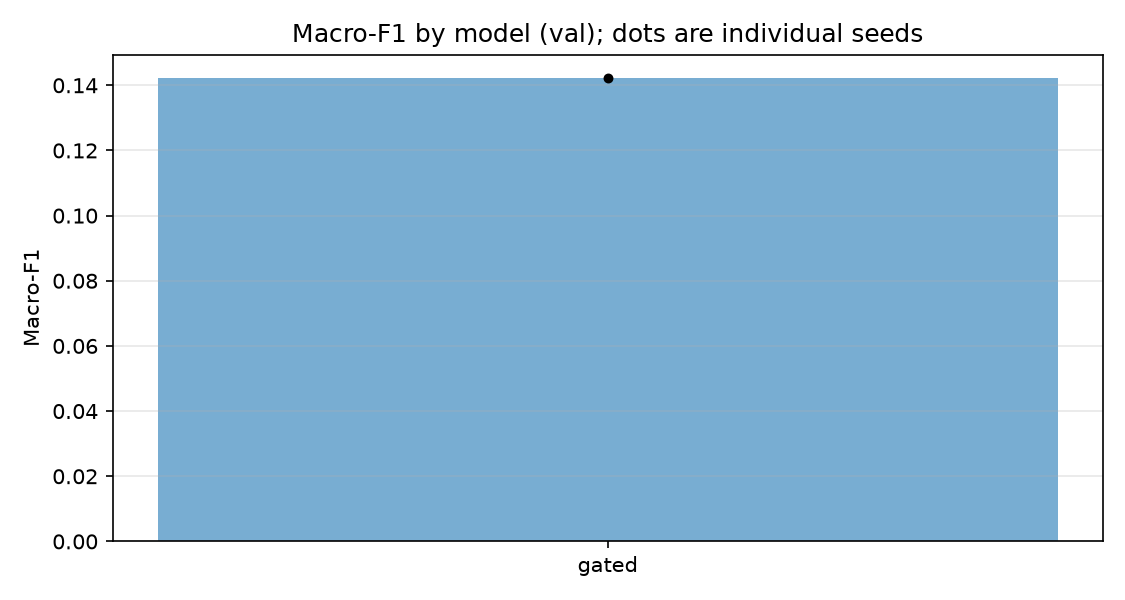
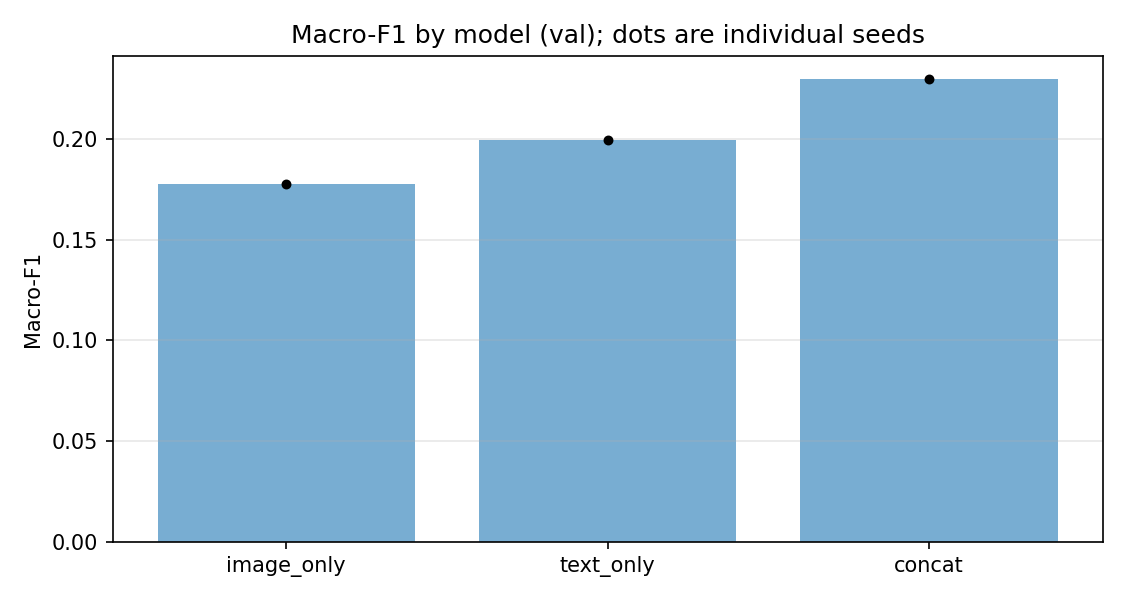
Publish Assignment 3 M2 draft results

diff --git a/assignment3.html b/assignment3.html
@@ -466,7 +466,7 @@
         <div class="section-header"><span class="section-icon" aria-hidden="true">&#128203;</span><h2 class="section-title" id="proposal-heading">Dataset Proposal</h2></div>
         <div class="content-card proposal-card"><div class="proposal-hero">
           <div class="proposal-topbar">
-            <span class="status-badge"><span class="status-badge-icon" aria-hidden="true"><svg viewBox="0 0 24 24" fill="none" stroke="currentColor" stroke-width="1.8" stroke-linecap="round"><circle cx="12" cy="12" r="8.5"/><path d="M12 7v5l3 2"/></svg></span><span>Pending instructor review</span></span>
+            <span class="status-badge approved"><span class="status-badge-icon" aria-hidden="true"><svg viewBox="0 0 24 24" fill="none" stroke="currentColor" stroke-width="1.8" stroke-linecap="round"><circle cx="12" cy="12" r="8.5"/><path d="M8.5 12.2l2.4 2.4 4.6-4.8" stroke-linejoin="round"/></svg></span><span>Approved to proceed</span></span>
             <span class="due-badge">Milestone M1</span>
           </div>
           <div class="proposal-intro">
@@ -474,6 +474,7 @@
               <div class="badge-track">Selected track: Image&ndash;text classification</div>
               <div class="proposal-title-box"><h3 class="proposal-title">Memotion-7K</h3></div>
               <p class="proposal-desc">Five-class meme sentiment classification using images and corrected text. We will compare unimodal baselines, simple fusion, and learned fusion to study when the two inputs support or conflict with each other.</p>
+              <p class="proposal-desc">Under the instructor&rsquo;s general guidance relayed by the group, teams may proceed with a suitable dataset without waiting for individual proposal approval.</p>
               <div class="action-links">
                 <a href="https://www.kaggle.com/datasets/hammadjavaid/6992-labeled-meme-images-dataset" target="_blank" rel="noopener" class="action-btn primary">Kaggle Dataset <span aria-hidden="true">&#8599;</span></a>
                 <a href="https://aclanthology.org/2020.semeval-1.99/" target="_blank" rel="noopener" class="action-btn">Original Paper <span aria-hidden="true">&#8599;</span></a>
@@ -604,13 +605,13 @@
           <div class="table-container" role="region" tabindex="0" aria-labelledby="proposal-compute-budget"><table class="rubric-table"><caption id="proposal-compute-budget">Explicit compute-budget assumptions</caption><thead><tr><th scope="col">Component</th><th scope="col">Planning allowance</th></tr></thead><tbody>
           <tr><td>Provisional data scale</td><td>About 4,890 training and 1,048 validation pairs; at batch size 32, approximately 153 training and 33 validation batches per epoch. Final grouped counts may differ.</td></tr>
           <tr><td>Five configurations, one seed</td><td>Up to 20 epochs each, or 100 complete training/validation epochs in total</td></tr>
-          <tr><td>Assumed epoch time</td><td>1&ndash;2 minutes per training-plus-validation epoch; this must be measured after approval</td></tr>
+          <tr><td>Assumed epoch time</td><td>1&ndash;2 minutes per training-plus-validation epoch (proposal estimate)</td></tr>
           <tr><td>Training and validation</td><td>100&ndash;200 minutes across the five configurations</td></tr>
           <tr><td>Extraction, setup, and evaluation</td><td>20&ndash;40 additional minutes, including initial frozen-feature extraction where used and checkpoint reloads</td></tr>
           <tr><td>Total time reserved</td><td>120&ndash;240 minutes (2&ndash;4 hours), excluding optional extra seeds and image fine-tuning</td></tr>
           <tr><td>Working storage</td><td>15&ndash;20 GB for data, caches, checkpoints, and logs; separate from Python/CUDA installation</td></tr>
           </tbody></table></div>
-          <p>Text-only and cached frozen-feature runs may be faster, and early stopping may reduce the budget. GPU model alone does not determine throughput: CPU decoding, storage, data-loader settings, and caching also matter. After approval, time a short training/validation pilot and measure peak VRAM, then replace these assumptions with observed costs. Preserve the required comparisons before optional extra runs.</p>
+          <p>Text-only and cached frozen-feature runs may be faster, and early stopping may reduce the budget. GPU model alone does not determine throughput: CPU decoding, storage, data-loader settings, and caching also matter. During implementation, measure training and validation time and peak VRAM to compare with these estimates. Preserve the required comparisons before optional extra runs.</p>
           <p>Record dependency versions, hardware, seeds, encoder weights, resolved configurations, manifest hashes, source revision and dirty-tree status, run IDs, logs, selected checkpoints, and training/inference timing scope. Supply preparation, training, evaluation, and checkpoint reconstruction instructions as implementation progresses.</p>
         </section></div></div>
       </section>
@@ -620,6 +621,8 @@
           <span class="section-icon" aria-hidden="true">&#127919;</span>
           <h2 class="section-title" id="problem-statement-title">Problem Statement</h2>
         </div>
+        <p>Given a meme image and its supplied corrected text, predict one overall sentiment label: <strong>very negative, negative, neutral, positive, or very positive</strong>.</p>
+        <p>A meme&rsquo;s sentiment can depend on how the wording and image interact. In M2, we compare an image-only model, a text-only model, and a model that combines both inputs on the same validation split. Our primary measure is Macro-F1, which gives each sentiment class equal weight despite class imbalance.</p>
       </section>
 
       <!-- Dataset Description & EDA -->
@@ -751,6 +754,11 @@
           <span class="section-icon" aria-hidden="true">&#9881;</span>
           <h2 class="section-title" id="methodology-title">Methodology</h2>
         </div>
+        <ul>
+          <li><strong>Image-only:</strong> a frozen ImageNet-pretrained ResNet-18 extracts 512 features from the full meme image. A trainable head predicts one of five sentiment classes.</li>
+          <li><strong>Text-only:</strong> trainable token embeddings and a GRU encode the supplied corrected text. Sequence lengths keep padding out of the text representation.</li>
+          <li><strong>Simple fusion:</strong> project the image and text features to 256 dimensions each, concatenate them, and predict sentiment from the combined representation.</li>
+        </ul>
       </section>
 
       <section class="section-block" id="experimental-setup" aria-labelledby="experimental-setup-title">
@@ -758,6 +766,7 @@
           <span class="section-icon" aria-hidden="true">&#129514;</span>
           <h2 class="section-title" id="experimental-setup-title">Experimental Setup</h2>
         </div>
+        <p>Each model used the same 4,819 training pairs and 1,034 validation pairs, with seed 42 on an NVIDIA GeForce RTX 5070 Ti. We used AdamW (learning rate 0.001, weight decay 0.0001), batch size 32, and unweighted cross-entropy. We selected the checkpoint with the highest validation Macro-F1 and stopped after five epochs without improvement. Each reloaded checkpoint reproduced its saved validation Macro-F1. The held-out test split is reserved for M3.</p>
       </section>
 
       <section class="section-block" id="results" aria-labelledby="results-title">
@@ -765,6 +774,25 @@
           <span class="section-icon" aria-hidden="true">&#128200;</span>
           <h2 class="section-title" id="results-title">Results</h2>
         </div>
+        <h3>M2 Draft: Validation Results</h3>
+        <p>Macro-F1 is the primary metric and gives equal weight to each of the five classes. The three trained models each ran once with seed 42.</p>
+        <div class="table-container" role="region" aria-labelledby="m2-results-caption" tabindex="0">
+          <table class="rubric-table">
+            <caption id="m2-results-caption">Performance on 1,034 validation memes</caption>
+            <thead><tr><th scope="col">Model</th><th scope="col">Accuracy</th><th scope="col">Macro-F1</th></tr></thead>
+            <tbody>
+              <tr><th scope="row">Always predict positive</th><td>44.68%</td><td>0.1235</td></tr>
+              <tr><th scope="row">Image-only ResNet-18</th><td>41.01%</td><td>0.1779</td></tr>
+              <tr><th scope="row">Text-only GRU</th><td>35.98%</td><td>0.1995</td></tr>
+              <tr><th scope="row">Image + text concatenation</th><td>36.75%</td><td><strong>0.2298</strong></td></tr>
+            </tbody>
+          </table>
+        </div>
+        <figure class="eda-figure eda-figure-capped">
+          <img src="assignment3/results/comparison/macro_f1_val.png" alt="Validation Macro-F1 for the image-only, text-only, and concatenation models. Exact scores appear in the table above." loading="lazy" />
+          <figcaption>Concatenation had the highest validation Macro-F1 among the three trained models.</figcaption>
+        </figure>
+        <p><a href="assignment3/results/comparison/summary_val.md">Validation comparison summary</a> &middot; <a href="assignment3/results/comparison/runs_val.csv">Per-run metrics (CSV)</a> &middot; <a href="assignment3/results/comparison/per_class_f1_val.png">Per-class F1 chart</a></p>
       </section>
 
       <section class="section-block" id="comparison-discussion" aria-labelledby="comparison-discussion-title">
@@ -772,6 +800,7 @@
           <span class="section-icon" aria-hidden="true">&#9878;</span>
           <h2 class="section-title" id="comparison-discussion-title">Comparison &amp; Discussion</h2>
         </div>
+        <p>Concatenation raised validation Macro-F1 by 0.0303 over text-only and 0.0519 over image-only. The majority baseline still had higher accuracy than all three trained models. These are results from one seed, so the size and consistency of the fusion gain across runs remain unknown.</p>
       </section>
 
       <section class="section-block" id="error-analysis" aria-labelledby="error-analysis-title">
@@ -779,6 +808,7 @@
           <span class="section-icon" aria-hidden="true">&#128269;</span>
           <h2 class="section-title" id="error-analysis-title">Error Analysis</h2>
         </div>
+        <p>The image-only model predicted only positive and neutral. Concatenation predicted all five classes, but it identified only 1 of 22 very-negative and 4 of 71 negative validation memes correctly. We will examine examples where the image and corrected text agree or conflict in M3.</p>
       </section>
 
       <section class="section-block" id="limitations-conclusion" aria-labelledby="limitations-conclusion-title">
@@ -797,6 +827,7 @@
         <div class="links-grid">
           <a href="#dataset-proposal" class="link-btn-card"><span class="link-label">Read the M1 Dataset Proposal</span></a>
           <a href="#eda" class="link-btn-card"><span class="link-label">Dataset Description &amp; EDA</span></a>
+          <a href="#results" class="link-btn-card"><span class="link-label">M2 Draft Results</span></a>
           <a href="https://github.com/Winuim12/CO3133-261-Group9-Ryzen9/tree/main/assignment3" class="link-btn-card" target="_blank" rel="noopener"><span class="link-label">Source Repository</span></a>
           <a href="assignment3/AI_USAGE.md" class="link-btn-card"><span class="link-label">Assignment 3 AI Usage Log</span></a>
         </div>
@@ -814,7 +845,7 @@
           <p>
             Codex (OpenAI, GPT-6) assisted with task explanation, proposal drafting, audit-script guidance,
             and this proposal page in November 2026. The group ran the preliminary audit scripts;
-            the saved audit confirms the counts reported above. No model training results are claimed.
+            the saved audit confirms the counts reported above. Codex also helped draft and check the M2 results section against the group&rsquo;s saved validation runs.
           </p>
           <p>
             One disclosure already applies: the skeleton of this page — its HTML structure, section layout, and the

diff --git a/assignment3/results/comparison/summary_val.md b/assignment3/results/comparison/summary_val.md
@@ -4,6 +4,8 @@ Mean ± sample standard deviation over seeds (± 0 when only one run exists).
 
 | Model | Runs | Accuracy | Macro-F1 | Trainable params | s/epoch | Peak VRAM (MiB) | Image gate |
 | --- | ---: | ---: | ---: | ---: | ---: | ---: | ---: |
-| gated | 1 | 0.4050 ± 0.0000 | 0.1423 ± 0.0000 | 1,175,941 | 12.2 | — | 0.468 |
+| image_only | 1 | 0.4101 ± 0.0000 | 0.1779 ± 0.0000 | 2,565 | 50.1 | 1298 | — |
+| text_only | 1 | 0.3598 ± 0.0000 | 0.1995 ± 0.0000 | 847,493 | 47.2 | 64 | — |
+| concat | 1 | 0.3675 ± 0.0000 | 0.2298 ± 0.0000 | 1,045,893 | 48.4 | 1302 | — |
 
 Differences of this size should be judged against the seed standard deviation.
